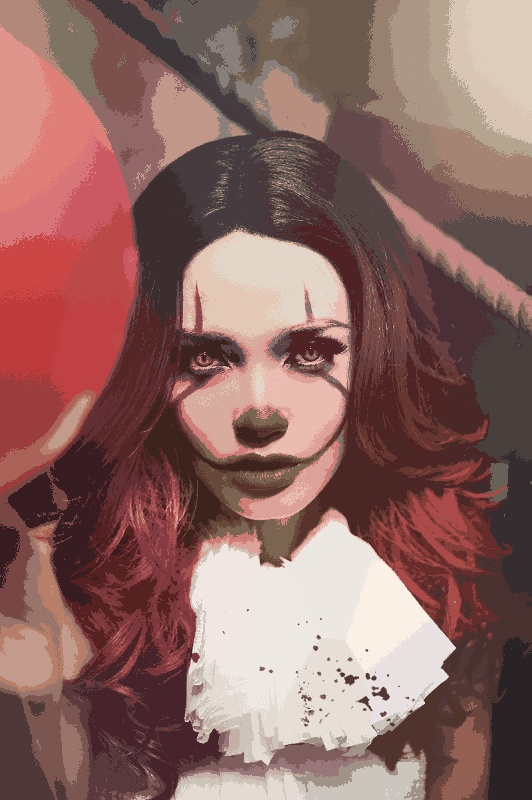
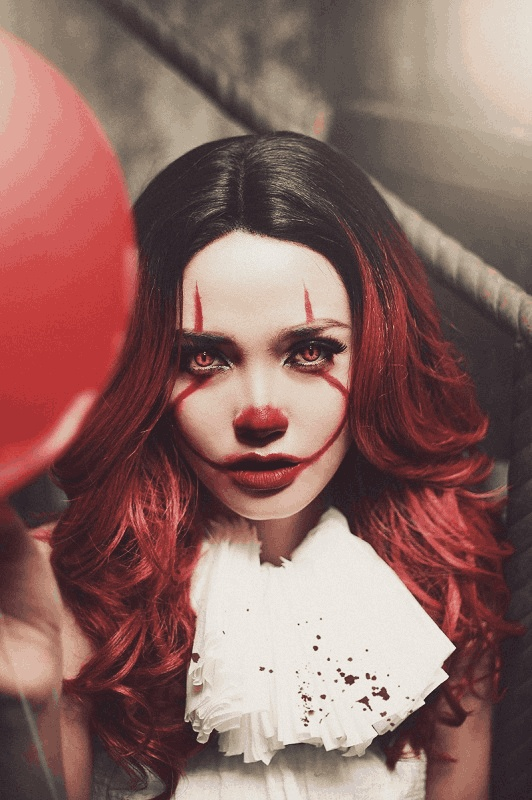
fix task 5

diff --git a/hw02/src/utils.py b/hw02/src/utils.py
@@ -61,22 +61,17 @@ def clusterize_image(image):
 
     height, width, color_bytes = image.shape
 
-    xs = np.array([[[i, j, image[i][j][0], image[i][j][1], image[i][j][2]] for j in range(width)] for i in range(height)]).reshape((height * width, 5))
-    ys = image.reshape((height * width, color_bytes))
+    xs = image.reshape((height * width, color_bytes))
 
-    mean = np.mean(xs, axis=0)
-    std = np.std(xs, axis=0)
-    xs = (xs - mean) / std
+    _min = xs.min(axis=0)
+    _max = xs.max(axis=0)
+    xs = (xs - _min) / (_max - _min)
 
-    kmeans = KMeans(n_clusters=100, init='k-means++', max_iter=10)
+    kmeans = KMeans(n_clusters=64, init='k-means++', max_iter=300)
     kmeans.fit(xs)
 
     labels = kmeans.predict(xs)
-
-    cluster_colors = [0] * kmeans.n_clusters
-
-    for i in range(xs.shape[0]):
-        cluster_colors[labels[i]] = ys[i]
+    cluster_colors = (kmeans.centroids * (_max - _min) + _min).astype(int)
 
     recolored = np.array([cluster_colors[c] for c in labels])
 

diff --git a/hw02/src/k_means.py b/hw02/src/k_means.py
@@ -12,6 +12,7 @@ class KMeans:
         self.init = init
         self.max_iter = max_iter
         self.centroids = None
+        self.EPSILON = 1e-9
 
     def sample_init(self, xs: np.ndarray):
         self.centroids = xs.copy()
@@ -46,12 +47,15 @@ class KMeans:
             mass_centers = [np.zeros(xs.shape[1:]) for _ in range(self.n_clusters)]
             cluster_size = [0] * self.n_clusters
             for i in range(xs.shape[0]):
-                c = int(cs[i])
+                c = cs[i][0]
                 mass_centers[c] += xs[i]
                 cluster_size[c] += 1
             for c in range(self.n_clusters):
                 mass_centers[c] /= cluster_size[c]
-            self.centroids = np.array(mass_centers)
+            mass_centers = np.array(mass_centers)
+            if np.linalg.norm(mass_centers - self.centroids) < self.EPSILON:
+                break
+            self.centroids = mass_centers
 
     def fit(self, xs: np.ndarray):
         if self.init == 'random':
